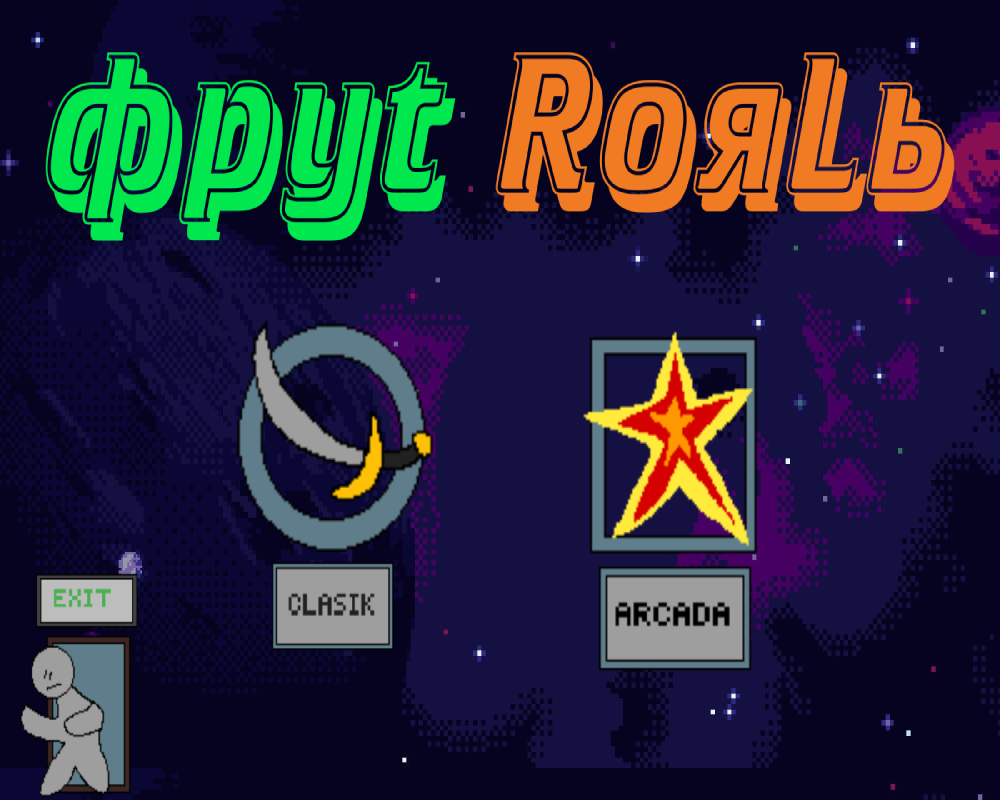
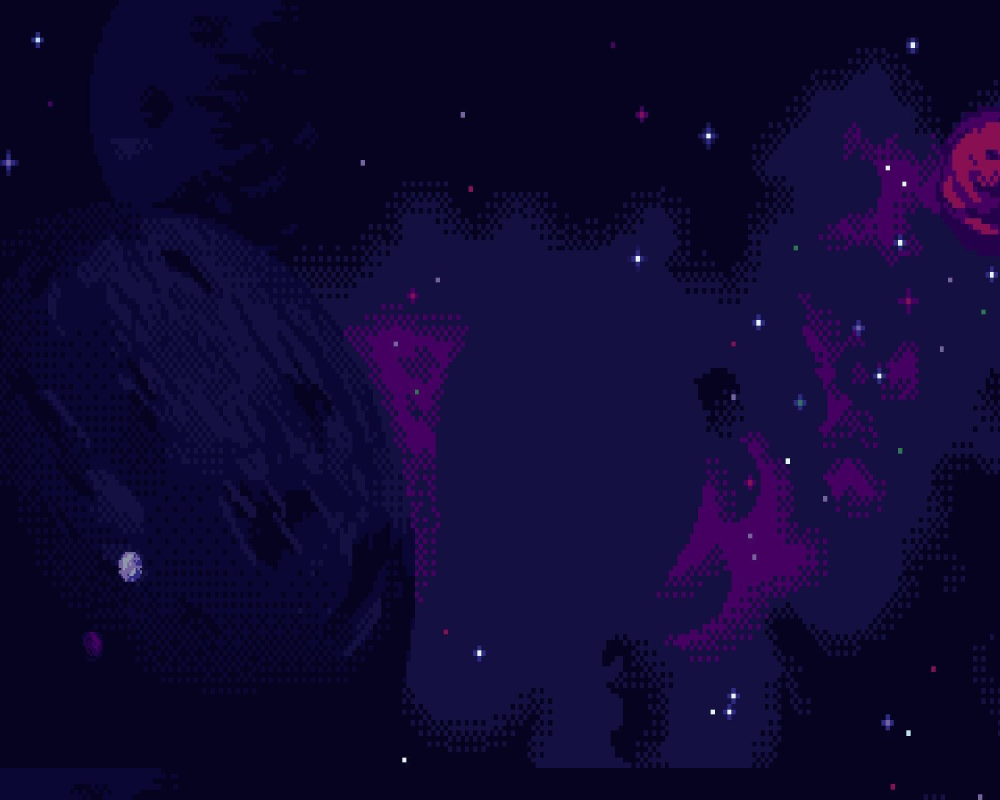
buttons logic

diff --git a/main.py b/main.py
@@ -1,7 +1,11 @@
 import pygame
+from pygame.sprite import Group, Sprite
+
+from general_classes import Button
 from settings import *
 from data.commands import *
 from game import Game
+from pygame.transform import scale
 
 
 def setup_menu_screen(picture):
@@ -12,47 +16,91 @@ def setup_menu_screen(picture):
     running = True
     clock = pygame.time.Clock()
     pygame.mouse.set_visible(True)
-    return running, clock
+
+    btn_images = [load_image(f'res/images/{image}.png') for image in ['exit', 'classic', 'arcade']]
+
+    image = btn_images[0]
+    doubled_size = tuple(xy * 1.5 for xy in image.get_size())
+    image = scale(image, doubled_size)
+
+    button_exit = Button(10, HEIGHT - image.get_height(), image, destroy)
+
+    image = scale(btn_images[1], doubled_size)
+    button_classic = Button(WIDTH / 3 - image.get_width() / 2, (HEIGHT - image.get_height()) / 2,
+                            image, classic_game)
+
+    image = scale(btn_images[2], doubled_size)
+    button_arcade = Button(2 * WIDTH / 3 - image.get_width() / 2, (HEIGHT - image.get_height()) / 2,
+                           image, arcade_game)
+
+    buttons_group = Group(button_exit, button_classic, button_arcade)
+    return running, clock, buttons_group
+
+
+def destroy():
+    pygame.quit()
 
 
 def start_screen():
-    running, clock = setup_menu_screen("main_menu")
+    running, clock, buttons_group = setup_menu_screen("main_menu")
     while running:
         for event in pygame.event.get():
             if event.type == pygame.QUIT:
                 running = False
-            if event.type == pygame.KEYDOWN:
-                if event.key == pygame.K_RETURN:
-                    main_game()
+            if event.type == pygame.MOUSEBUTTONDOWN:
+                x, y = event.pos
+                button: Button
+                for button in buttons_group:
+                    if button.get_rect().collidepoint(x, y):
+                        button.click()
+                        break
+
+        buttons_group.draw(screen)
         pygame.display.flip()
         clock.tick(FPS)
 
     pygame.quit()
 
 
-def finish_screen():
-    running, clock = setup_menu_screen('main_menu')
-    while running:
-        for event in pygame.event.get():
-            if event.type == pygame.QUIT:
-                running = False
-            if event.type == pygame.KEYDOWN:
-                if event.key == pygame.K_RETURN:
-                    return main_game()
-        pygame.display.flip()
-        clock.tick(FPS)
-
-    pygame.quit()
+# def finish_screen():
+#     running, clock, buttons_group = setup_menu_screen('main_menu')
+#     while running:
+#         for event in pygame.event.get():
+#             if event.type == pygame.QUIT:
+#                 running = False
+#             if event.type == pygame.MOUSEBUTTONDOWN:
+#                 x, y = event.pos
+#                 button: Button
+#                 for button in buttons_group:
+#                     if button.get_rect().collidepoint(x, y):
+#                         button.click()
+#                         break
+#         buttons_group.draw(screen)
+#         pygame.display.flip()
+#         clock.tick(FPS)
+#
+#     pygame.quit()
 
 
 def menu():
     pass
 
 
-def main_game():
+def classic_game():
+    main_game(1)
+
+
+def arcade_game():
+    main_game(0)
+
+
+def main_game(game_type):
     game = Game()
-    game.base_game(screen)
-    finish_screen()
+    if game_type:
+        game.base_game(screen)
+    else:
+        pass
+    start_screen()
 
 
 if __name__ == '__main__':

diff --git a/general_classes.py b/general_classes.py
@@ -47,6 +47,7 @@ class Slice(pygame.sprite.Sprite):
     def draw(self, screen):
         screen.blit(self.image, (self.rect.x, self.rect.y))
 
+
 class Cross(pygame.sprite.Sprite):
     def __init__(self, cords):
         super().__init__()
@@ -57,7 +58,7 @@ class Cross(pygame.sprite.Sprite):
         self.images = [pygame.transform.scale(image, doubled_size) for image in self.images]
 
         self.image = self.images[0]
-        self.rect = pygame.rect.Rect(self.x, self.y, *self.image.get_size())
+        self.rect = Rect(self.x, self.y, *self.image.get_size())
 
         self.on_animation = False
         self.sprite = 0
@@ -80,5 +81,24 @@ class Cross(pygame.sprite.Sprite):
 
 
 class Button(pygame.sprite.Sprite):
-    def __init__(self, x, y):
+    def __init__(self, x, y, image, on_click):
+        super().__init__()
+        self.x = x
+        self.y = y
+        self.image = image
+
+        self.click = on_click
+
+        self.mask = pygame.mask.from_surface(self.image)
+        self.rect = Rect(self.x, self.y, *self.image.get_size())
+        print(self.rect)
+
+    def click(self):
         pass
+
+    def draw(self, screen):
+        screen.blit(self.image, self.rect.size)
+
+    def get_rect(self):
+        print(self.rect)
+        return self.rect

diff --git a/game.py b/game.py
@@ -1,9 +1,7 @@
 import threading
 
-import random
-from datetime import datetime, timedelta
+from datetime import datetime
 import pygame
-from pygame import Rect
 from pygame.sprite import Group
 from data.commands import load_image
 from settings import *
@@ -42,14 +40,12 @@ class Game:
         mouse_pos = (0, 0)
         f1 = pygame.font.Font(None, 100)
 
-        buttons = Group()
-
         while running:
             screen.fill((0, 0, 0))
             screen.blit(back_image, (0, 0))
             for event in pygame.event.get():
                 if event.type == pygame.QUIT:
-                    running = False
+                    pygame.quit()
                 if event.type == pygame.MOUSEBUTTONDOWN:
                     if event.button == 1:
                         self.blade.is_cutting = True
@@ -135,7 +131,6 @@ class Game:
                 self.last_fruit = datetime.now()
                 answer += 1
             if fruit.rect.y > HEIGHT and fruit.was_above:
-
 
                 cross: Cross
                 for cross in self.crosses:

diff --git a/data/commands.py b/data/commands.py
@@ -1,9 +1,10 @@
 import os
 import pygame
+from pygame import Surface
 from data.exceptions import *
 
 
-def load_image(name, colorkey=None):
+def load_image(name, colorkey=None) -> Surface:
     if not os.path.isfile(name):
         raise BadLoadImage(f"Файл с изображением {name} не найден")
     image = pygame.image.load(name)
@@ -14,7 +15,8 @@ def load_image(name, colorkey=None):
         image.set_colorkey(colorkey)
     else:
         try:
-            image = image.convert_alpha()
+            # image = image.convert_alpha()
+            pass
         except pygame.error as e:
             print(e)
     return image
